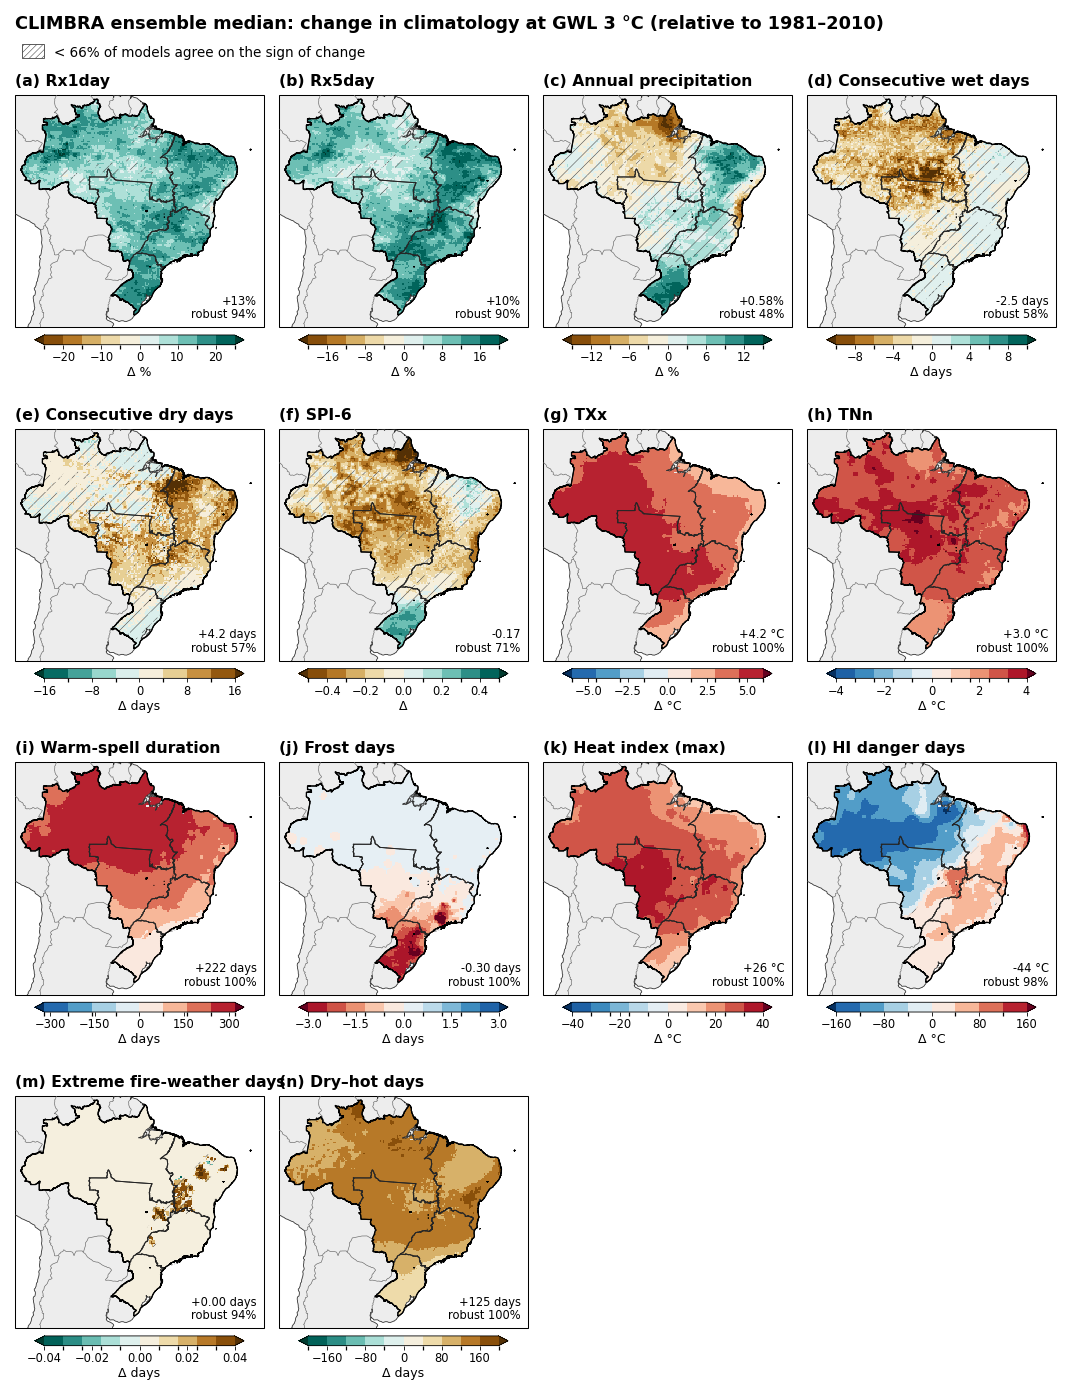
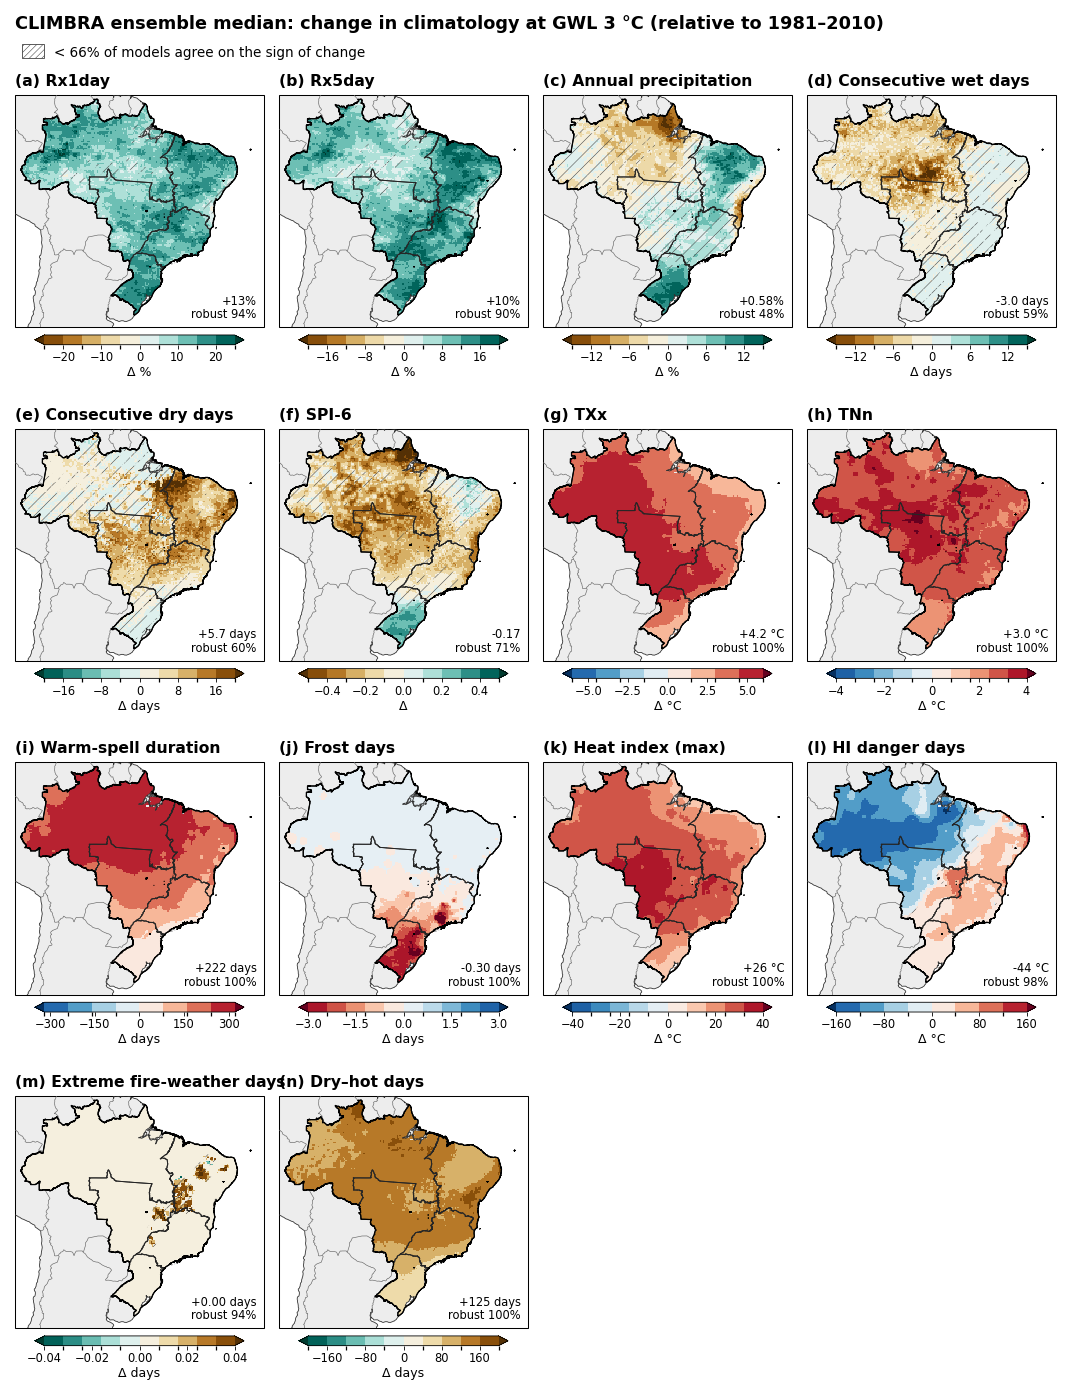
v0.1.1: fix GEV sign selection in the return-period shift; README updates; Zenodo dataset tools; refreshed figures

diff --git a/hazbra/rp_shift.py b/hazbra/rp_shift.py
@@ -265,7 +265,14 @@ def detect_convention(indicator, var, models, T=CHECK_T):
                     n=int(ok.sum()))
         if not cand:
             continue
-        best = min(cand, key=lambda k: cand[k]['mae'])
+        # Median relative error (not the mean): the stored return levels were outlier-filtered (interpolated or
+        # capped at 365 days), and those few cells dominate a mean error and can select the wrong sign.
+        # Ties are resolved in favour of the xclim convention.
+        def _rank(k):
+            sgn, md = k.split('|')
+            exp = int(sgn) == EXPECTED_C_SIGN and md == EXPECTED_MODE[tail]
+            return (round(cand[k]['rel_err_pct'], 6), 0 if exp else 1, cand[k]['mae'])
+        best = min(cand, key=_rank)
         sign, mode = best.split('|')
         conv = dict(c_sign=int(sign), mode=mode, tail=tail, checked=True, ref_model=m,
                     T_check=t_used, **cand[best], candidates=cand)
@@ -490,9 +497,8 @@ Everything is computed per model; ensemble statistics are computed afterwards, p
 <Category>/<Indicator>/
 ├── individual_models/
 │   ├── <MODEL>_params.nc              input: GEV parameters (c, loc, scale) per GWL
-│   ├── <MODEL>_return_period.nc       input: fixed return levels (used for the convention check)
 │   ├── <MODEL>_rp_shift.nc            output: per-model return-period shift
-│   └── rp_shift_conventions.json      output: detected GEV convention per variable
+│   └── rp_shift_conventions.json      output: GEV parameter convention check per variable (internal)
 └── ensemble/
     └── ensemble_rp_shift.nc           output: ensemble statistics and model agreement
 ```
@@ -524,47 +530,6 @@ ensemble files).
 
 Note: percentiles of the return period and of PR are computed independently; the p10 of the
 return period corresponds to the p90 of PR (most frequent end).
-
-## GEV convention
-
-The parameter files store (c, loc, scale). The sign convention of c and the tail used for
-indicators fitted on minima are detected automatically: every candidate combination is used
-to recompute the present-day {CHECK_T}-year level and compared with the model's own
-`<MODEL>_return_period.nc`; the combination with the smallest error is used.
-
-Tail modes:
-{chr(10).join(f'* `{k}`: {v}' for k, v in MODES.items())}
-
-Indicators treated as lower-tail (fitted on minima): {', '.join(sorted(LOWER_TAIL_INDICATORS))}.
-
-| Indicator | Variable | Tail | Mode | c sign | Checked | Median rel. error (%) | Models | Ensemble |
-|---|---|---|---|---|---|---|---|---|
-{table}
-
-`c sign = +1` means the stored c follows `scipy.stats.genextreme` (c = −ξ).
-
-The parameters were produced with `xclim.indices.stats.frequency_analysis` / `fit`
-(`dist="genextreme"`, `freq="YS"`), which stores (c, loc, scale) in the scipy convention. For
-maxima (`mode="max"`) the T-year level is the 1 − 1/T quantile; for minima (`mode="min"`, used
-for TNN and SPI) the GEV is fitted directly to the annual minima and the T-year level is the
-1/T quantile (tail mode `lower`). The automatic check above confirms this per variable.
-
-## Caveats
-
-* Each GWL is represented by a 30-year window: return periods beyond ~30 years (50, 100) are
-  extrapolations of the fitted GEV and carry large sampling uncertainty, which is not included
-  in the model spread.
-* Under bounded tails (ξ < 0) small changes in the parameters can make the historical level
-  unreachable (capped at {MAX_RP:g} years); check `<var>_frac_capped`.
-* For TNN and SPI the GEV is fitted directly to the annual minima (xclim `mode="min"`). Extreme
-  value theory motivates fitting a GEV to −x (minima of x are maxima of −x); fitting
-  `genextreme` to the minima themselves is a pragmatic choice whose lower tail is not
-  constrained by the theory, so return levels beyond the sample length should be interpreted
-  with care.
-* For lower-tail indicators (TNN, SPI) the event is "at or below z_T": PR > 1 means e.g. that
-  very cold nights (TNN) or severe droughts (SPI) become more frequent.
-* Spatial aggregation: arithmetic means of return periods or PR across grid cells are biased by
-  large values; use medians or the geometric mean of PR.
 """
     with open(_readme_path(), 'w', encoding='utf-8') as fh:
         fh.write(txt)

diff --git a/hazbra/municipal.py b/hazbra/municipal.py
@@ -1149,21 +1149,6 @@ consistency check; small differences come from buffers and missing municipalitie
 Output files ({len(inv)}):
 
 {_md_table(pd.DataFrame(inv)) if inv else '_none yet_'}
-## Caveats
-
-* Values for municipalities flagged `{B}` or `nearest` represent the surrounding area, not
-  the municipality alone. This mainly affects small municipalities on coarse grids (e.g.
-  CLIMBRA 0.25°) and coastal municipalities on land-only grids.
-* Statistics inherit the resolution of the source grid: municipal values for municipalities
-  much smaller than a grid cell are effectively the value of the enclosing cell(s).
-* Return-period shift (`file_kind = rp_shift`): municipal values are area-weighted arithmetic
-  means of the per-cell return periods and probability ratios. New return periods are capped
-  at 1000 years in the source files, so a few capped cells can raise the municipal mean; `max`
-  and `min` show the range within the municipality. In the ensemble file the p10 of the return
-  period corresponds to the most-frequent end of the model range.
-* Ensemble percentiles (`p10`, `median`, `p90`) are computed per grid cell before aggregation;
-  the municipal mean of a percentile map is not the percentile of municipal means across models.
-
 ## Reading the data
 
 ```python

diff --git a/tools/zenodo_dataset/README_dataset.md b/tools/zenodo_dataset/README_dataset.md
@@ -88,7 +88,7 @@ Return-period shifts (§5) are provided for every GEV indicator except the seaso
 HI and FWI use the 10 CLIMBRA models that provide relative humidity and wind (ACCESS-ESM1-5, CMCC-ESM2, EC-EARTH3,
 INM-CM4_8, INM-CM5, IPSL-CM6A-LR, MIROC6, MPI-ESM1-2, MRI-ESM2, NorESM2-MM); all other indicators use the 19 models.
 
-## 4. Periods, grids and conventions
+## 4. Periods and grids
 
 | | Grid | Series | Reference (climatology, GEV) | Trend |
 |---|---|---|---|---|
@@ -120,7 +120,7 @@ INM-CM4_8, INM-CM5, IPSL-CM6A-LR, MIROC6, MPI-ESM1-2, MRI-ESM2, NorESM2-MM); all
 | `timeseries` | annual (or seasonal) series | time, lat, lon [, season] |
 | `timeseries_monthly` | monthly SPI-3 series (SPI3 only) | time, lat, lon |
 | `return_period` | GEV return levels | return_period (5…100), lat, lon [, season] |
-| `params` | GEV parameters, **scipy convention**: `c`, `loc`, `scale` with shape ξ = −c | dparams, lat, lon [, season] |
+| `params` | GEV parameters `c`, `loc`, `scale` | dparams, lat, lon [, season] |
 | `trend` | `p_values`, `slopes` (Sen, units per year), `intercepts` – Hamed & Rao (1998) modified Mann–Kendall test; significant if p < 0.05 | lat, lon |
 
 Multi-variable indicators (HI, FWI) hold one variable per statistic (`HI_mean`, `HI_max`, `days_*`); their trend files
@@ -132,7 +132,7 @@ use `<var>_p_values`, `<var>_slopes`, `<var>_intercepts`.
 |---|---|---|
 | `climatology` | mean over each window | GWL (present, 1.5, 2, 3), lat, lon |
 | `return_period` | GEV return levels per window | GWL, return_period, lat, lon |
-| `params` | GEV parameters per window (scipy convention, ξ = −c) | GWL, dparams, lat, lon |
+| `params` | GEV parameters per window (`c`, `loc`, `scale`) | GWL, dparams, lat, lon |
 | `timeseries` | annual series 1980–2100 (not for SPI3/SPI6) | scenario (ssp245, ssp585), time, lat, lon |
 | `rp_shift` | `<var>_hist_return_level` (present-day level of the T-year event), `<var>_new_return_period` (years, 1–1000), `<var>_probability_ratio` (= T / new return period; > 1 more frequent) | GWL (1.5, 2, 3), event_rp, lat, lon |
 
@@ -178,21 +178,7 @@ day counts above 365 (92 for CDD_season) were capped instead. For each source:
 * `outliers_by_indicator.csv`, `outliers_summary.csv`, `outliers_detail.csv`, `outliers_summary.md`: shares of
   modified cells; `outliers_log.csv`: full log of the filter runs.
 
-## 8. Good practice and limitations
-
-* Compare the three observational baselines: they differ, especially for dry-spell length and extremes.
-* Use the P10–P90 range and the model agreement, not only the median; the ensemble spread does not include
-  observational or GEV sampling uncertainty.
-* Return levels come from 30 annual values (20 for MERGE); 50- and 100-year levels are extrapolations, particularly for
-  `TNN` and SPI (fitted to minima). Treat them as orders of magnitude.
-* GWL products come from SSP5-8.5 windows; SSP2-4.5 is available only through the annual time series.
-* Delta-change projections add model changes to a baseline: they keep its spatial detail but not changes in variability.
-  The MERGE delta-change files add the model change relative to 1981–2010 to the MERGE 2001–2020 baseline.
-* Municipal values are area means of the grids; values with `method` = `buffer25km` / `nearest` describe the surroundings.
-* The `units` attribute of some derived variables (trend p-values, agreement counts, % anomalies, HI/FWI day counts)
-  is inherited from the parent variable; the units in this guide take precedence.
-
-## 9. Citation
+## 8. Citation
 
 Please cite the data paper (in preparation) and this record:
 Cattelan, L. G., Amorim, P. B. de, Rodrigues, D. T., Buller, A., Vinagreiro, C. E., Moraes, R. J. N. P., Dalla Riva, E.,

diff --git a/CHANGELOG.md b/CHANGELOG.md
@@ -5,5 +5,13 @@ Versions follow the GitHub releases; each release is archived on Zenodo with its
 
 ## [Unreleased]
 
+## [0.1.1] – 2026-11-18
+- Fix: the return-period shift selected the GEV shape sign by the mean error against the outlier-filtered
+  return levels, which picked the wrong sign for CDD, CWD and several HI/FWI day counts; it now uses the median
+  error (ties resolved in favour of the xclim convention). Affected rp_shift products were recomputed.
+- Municipal README: relative paths, published-file notes; README generators without caveat / GEV-convention sections.
+- New `tools/zenodo_dataset/`: packing, upload to Zenodo (draft only) and the dataset user guide.
+- Paper figures regenerated with the final product (calendar-gap rerun of CDD, CWD, CDD_season and Frost).
+
 ## [0.1.0] – 2026-11-17
 First public version of the code organised for the review of the HAZBRA data paper (draft 1).

diff --git a/README.md b/README.md
@@ -18,6 +18,7 @@ hazbra/            python package: indicator registry, pipelines, statistics, mu
 03_paper_analysis/ figures and numbers of the paper (only those that appear in the paper)
 tests/             end-to-end test run on a small box + regression check against the existing product
 outputs/figures/   figures of the paper (PNG)
+tools/             zenodo_dataset/: packing + upload of the dataset to Zenodo, dataset user guide
 environment.yml    software environment
 ```
 
